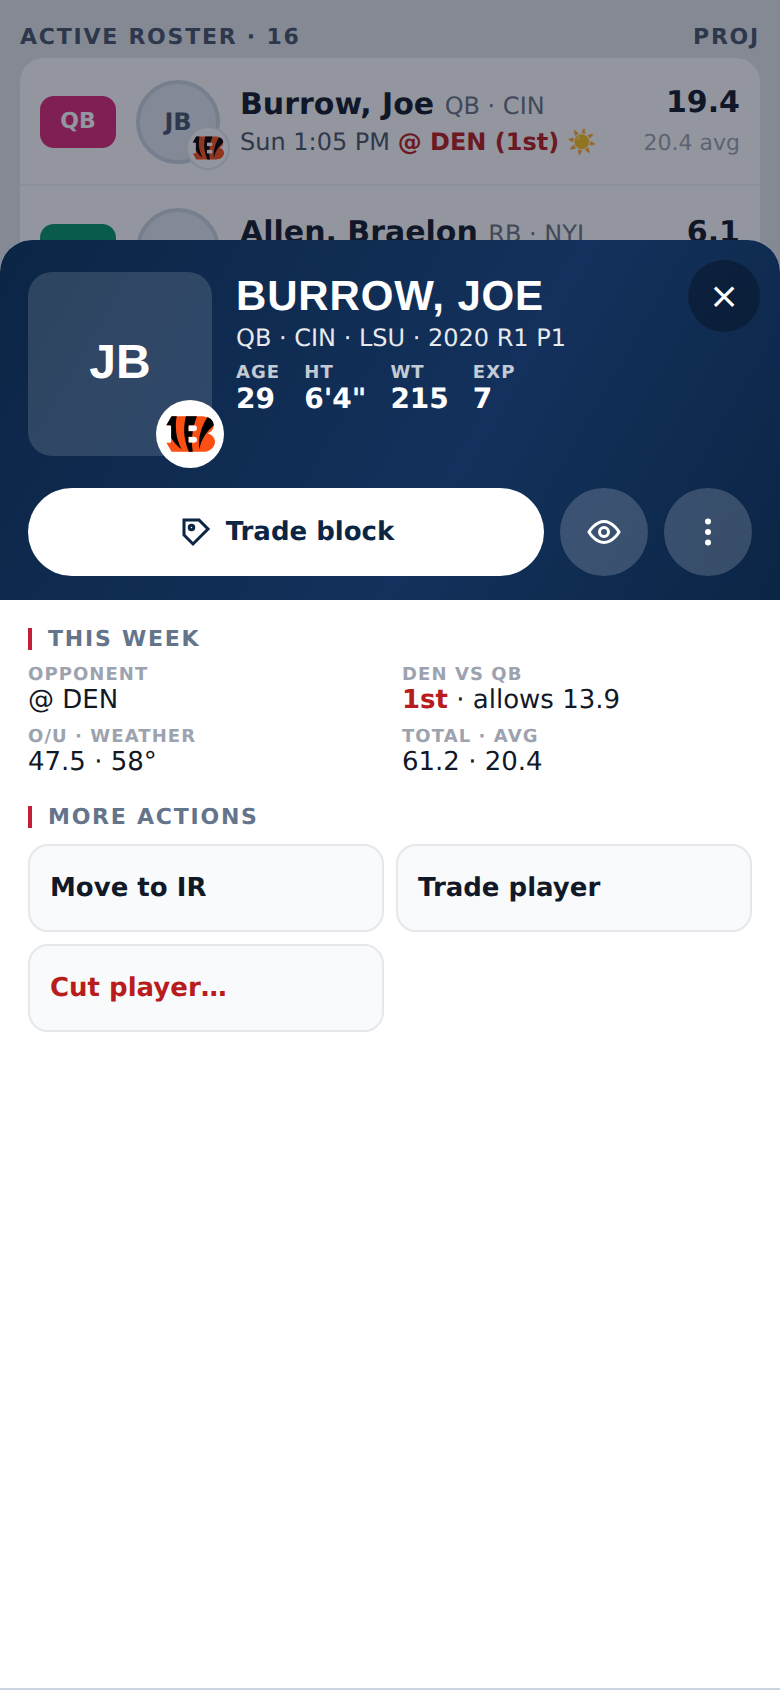
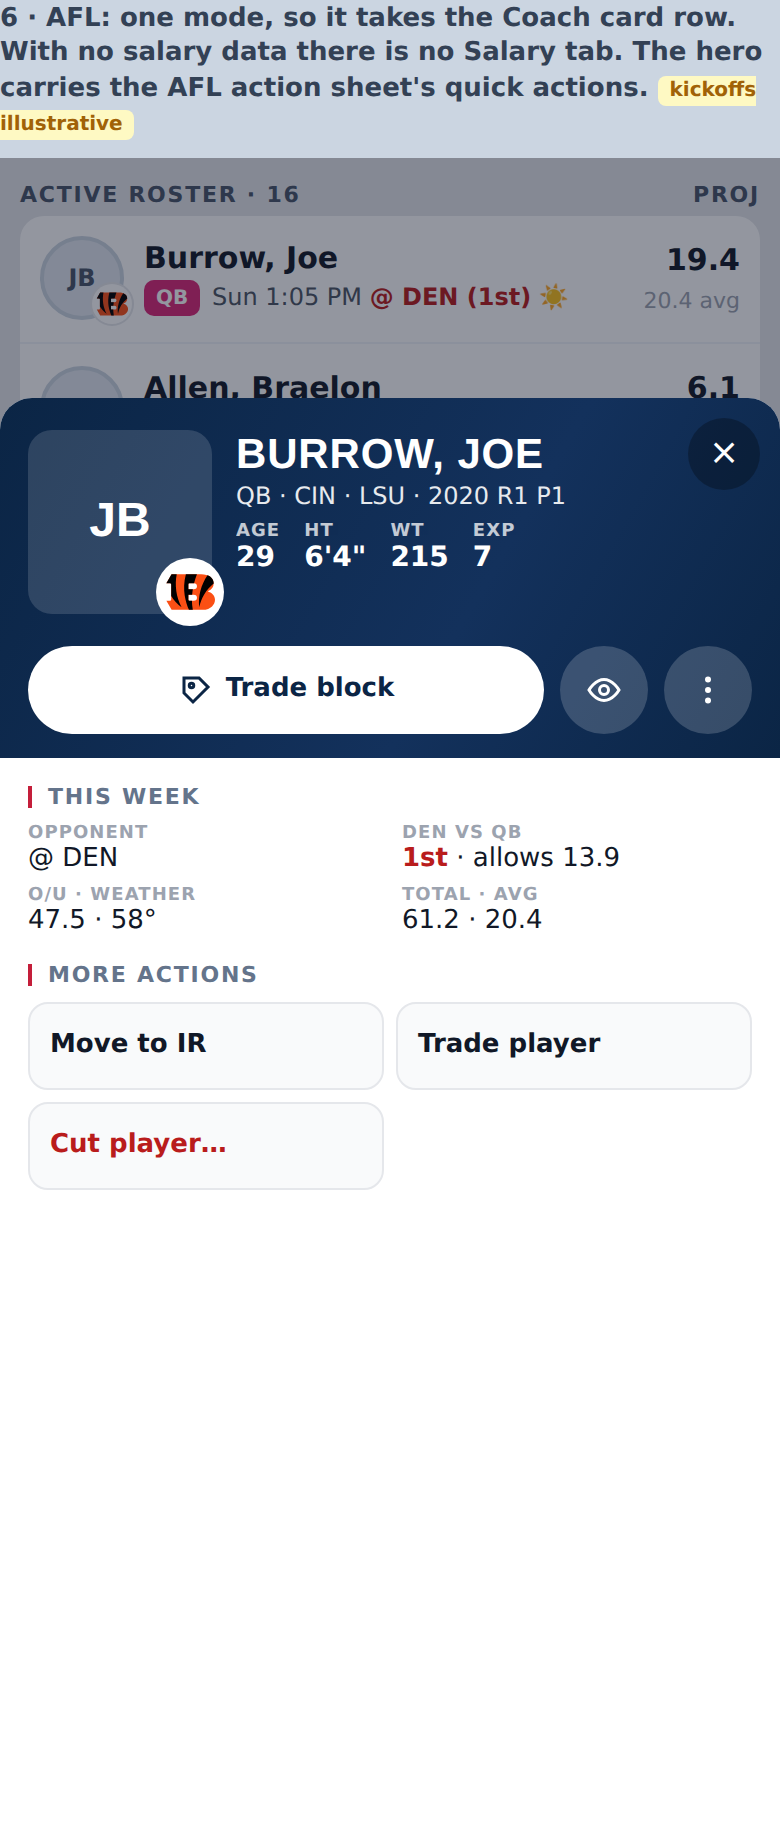
docs(rosters): record phone-layout decisions; pills inline under the name
GM and Coach rows stay separate, the sim bar shows on every viewed team,
and the position pill moves from its own column to the start of line 2.
Mockup and row screenshots re-rendered to match.

Claude-Session: https://claude.ai/code/session_01QToPg29wzrZ82tiSMZkkES

Changed region(s): [[0.0, 0.0, 1.0, 0.6462], [0.7692, 0.4615, 0.8, 0.4923]]

diff --git a/docs/plans/rosters-mobile-layout/mockup.html b/docs/plans/rosters-mobile-layout/mockup.html
@@ -59,9 +59,9 @@
   /* ---- card rows ---- */
   .group { margin: 0 10px 4px; font: 700 11px var(--font); letter-spacing: .08em; text-transform: uppercase; color: #475569; display: flex; justify-content: space-between; }
   .rows { margin: 0 10px 10px; background: var(--card); border-radius: 12px; overflow: hidden; }
-  .row { display: grid; grid-template-columns: 38px 42px 1fr auto; gap: 0 10px; align-items: center; padding: 9px 10px; border-bottom: 1px solid #f1f5f9; min-height: 64px; }
+  .row { display: grid; grid-template-columns: 42px 1fr auto; gap: 0 10px; align-items: center; padding: 9px 10px; border-bottom: 1px solid #f1f5f9; min-height: 64px; }
   .row:last-child { border-bottom: 0; }
-  .pos { width: 38px; height: 26px; border-radius: 7px; display: grid; place-items: center; font: 700 11px var(--font); color: #fff; }
+  .pos { display: inline-grid; place-items: center; min-width: 28px; height: 18px; padding: 0 5px; margin-right: 6px; border-radius: 5px; vertical-align: 1px; font: 700 10px var(--font); color: #fff; }
   .pos--QB { background: var(--qb); } .pos--RB { background: var(--rb); } .pos--WR { background: var(--wr); } .pos--TE { background: var(--te); }
   .row--ps .pos { box-shadow: inset 0 0 0 2px #fff, 0 0 0 2px #3b6fe0; }
   .av { width: 42px; height: 42px; border-radius: 50%; background: #e2e8f0; border: 2px solid #cbd5e1; position: relative; display: grid; place-items: center; font: 700 12px var(--font); color: #475569; }
@@ -173,7 +173,7 @@
 
 <!-- ===== 1. GM card rows ===== -->
 <section class="frame" id="f-gm">
-  <p class="frame__label">1 · TheLeague GM. Team card with cap bar and action chips. Rows: position pill, headshot with NFL badge, name / contract / status. Right: 2026 salary. Two moves simulated.</p>
+  <p class="frame__label">1 · TheLeague GM. Team card with cap bar and action chips. Rows: headshot with NFL badge, name, then the position pill inline under the name with contract / status. Right: 2026 salary. Two moves simulated.</p>
   <div class="phone">
     <div class="team">
       <div class="team__top"><img src="../../../public/assets/theleague/icons/pigskins.png" alt="" /><div><div class="team__name">Pacific Pigskins</div><div class="team__meta">3-1 · 5th of 16 · 190 PF · Northwest</div></div></div>
@@ -196,13 +196,13 @@
     </div>
     <div class="group"><span>Active · 22</span><span>2026</span></div>
     <div class="rows">
-      <div class="row"><span class="pos pos--QB">QB</span><span class="av">LJ<img src="../../../public/assets/nfl-logos/BAL.svg" alt="" /></span><span class="txt"><div class="l1">Lamar Jackson 🏷 <small>QB · BAL (7)</small></div><div class="l2"><span class="yrs">3</span> yrs<span class="sep">|</span>thru '28</div></span><span class="num"><b>$5,000,000</b><span>QB 3</span></span></div>
-      <div class="row"><span class="pos pos--QB">QB</span><span class="av">JG<img src="../../../public/assets/nfl-logos/DET.svg" alt="" /></span><span class="txt"><div class="l1">Jared Goff 🏷 <small>QB · DET (8)</small></div><div class="l2"><span class="yrs">3</span> yrs<span class="sep">|</span>thru '28</div></span><span class="num"><b>$3,400,000</b><span>QB 14</span></span></div>
-      <div class="row"><span class="pos pos--RB">RB</span><span class="av">RD<img src="../../../public/assets/nfl-logos/PIT.svg" alt="" /></span><span class="txt"><div class="l1">Rico Dowdle <small>RB · PIT (5)</small></div><div class="l2"><span class="yrs">3</span> yrs<span class="sep">|</span>thru '28<span class="sep">|</span><span class="q">QUES</span></div></span><span class="num"><b>$2,125,000</b><span>RB 22</span></span></div>
-      <div class="row row--sim"><span class="pos pos--RB">RB</span><span class="av">JW<img src="../../../public/assets/nfl-logos/MIA.svg" alt="" /></span><span class="txt"><div class="l1">Jaylen Wright <small>RB · MIA</small></div><div class="l2"><span class="sb sb--trade">trade ×</span> saves $574,750<span class="sep">|</span><span class="q">QUES</span></div></span><span class="num"><b>$574,750</b><span>RB 51</span></span></div>
-      <div class="row row--sim"><span class="pos pos--RB">RB</span><span class="av">JD<img src="../../../public/assets/nfl-logos/DEN.svg" alt="" /></span><span class="txt"><div class="l1">J.K. Dobbins <small>RB · DEN</small></div><div class="l2"><span class="sb sb--cut">cut ×</span> $272,250 dead<span class="sep">|</span>1 yr</div></span><span class="num"><b>$544,500</b><span>RB 40</span></span></div>
-      <div class="row"><span class="pos pos--RB">RB</span><span class="av">EW<img src="../../../public/assets/nfl-logos/SEA.svg" alt="" /></span><span class="txt"><div class="l1">Emanuel Wilson <small>RB · SEA (8)</small></div><div class="l2"><span class="yrs yrs--elig">4</span><span class="dl">17h</span> declare<span class="sep">|</span>Rookie</div></span><span class="num"><b>$467,500</b><span>RB 58</span></span></div>
-      <div class="row"><span class="pos pos--WR">WR</span><span class="av">JW<img src="../../../public/assets/nfl-logos/DEN.svg" alt="" /></span><span class="txt"><div class="l1">Jaylen Waddle <small>WR · DEN (12)</small></div><div class="l2"><span class="yrs">2</span> yrs<span class="sep">|</span>thru '27</div></span><span class="num"><b>$5,575,000</b><span>WR 9</span></span></div>
+      <div class="row"><span class="av">LJ<img src="../../../public/assets/nfl-logos/BAL.svg" alt="" /></span><span class="txt"><div class="l1">Lamar Jackson 🏷 <small>(7)</small></div><div class="l2"><span class="pos pos--QB">QB</span><span class="yrs">3</span> yrs<span class="sep">|</span>thru '28</div></span><span class="num"><b>$5,000,000</b><span>QB 3</span></span></div>
+      <div class="row"><span class="av">JG<img src="../../../public/assets/nfl-logos/DET.svg" alt="" /></span><span class="txt"><div class="l1">Jared Goff 🏷 <small>(8)</small></div><div class="l2"><span class="pos pos--QB">QB</span><span class="yrs">3</span> yrs<span class="sep">|</span>thru '28</div></span><span class="num"><b>$3,400,000</b><span>QB 14</span></span></div>
+      <div class="row"><span class="av">RD<img src="../../../public/assets/nfl-logos/PIT.svg" alt="" /></span><span class="txt"><div class="l1">Rico Dowdle <small>(5)</small></div><div class="l2"><span class="pos pos--RB">RB</span><span class="yrs">3</span> yrs<span class="sep">|</span>thru '28<span class="sep">|</span><span class="q">QUES</span></div></span><span class="num"><b>$2,125,000</b><span>RB 22</span></span></div>
+      <div class="row row--sim"><span class="av">JW<img src="../../../public/assets/nfl-logos/MIA.svg" alt="" /></span><span class="txt"><div class="l1">Jaylen Wright </div><div class="l2"><span class="pos pos--RB">RB</span><span class="sb sb--trade">trade ×</span> saves $574,750<span class="sep">|</span><span class="q">QUES</span></div></span><span class="num"><b>$574,750</b><span>RB 51</span></span></div>
+      <div class="row row--sim"><span class="av">JD<img src="../../../public/assets/nfl-logos/DEN.svg" alt="" /></span><span class="txt"><div class="l1">J.K. Dobbins </div><div class="l2"><span class="pos pos--RB">RB</span><span class="sb sb--cut">cut ×</span> $272,250 dead<span class="sep">|</span>1 yr</div></span><span class="num"><b>$544,500</b><span>RB 40</span></span></div>
+      <div class="row"><span class="av">EW<img src="../../../public/assets/nfl-logos/SEA.svg" alt="" /></span><span class="txt"><div class="l1">Emanuel Wilson <small>(8)</small></div><div class="l2"><span class="pos pos--RB">RB</span><span class="yrs yrs--elig">4</span><span class="dl">17h</span> declare<span class="sep">|</span>Rookie</div></span><span class="num"><b>$467,500</b><span>RB 58</span></span></div>
+      <div class="row"><span class="av">JW<img src="../../../public/assets/nfl-logos/DEN.svg" alt="" /></span><span class="txt"><div class="l1">Jaylen Waddle <small>(12)</small></div><div class="l2"><span class="pos pos--WR">WR</span><span class="yrs">2</span> yrs<span class="sep">|</span>thru '27</div></span><span class="num"><b>$5,575,000</b><span>WR 9</span></span></div>
       <div class="foot"><span>Total salary 2026 (incl. dead)</span><b>$42,174,925</b></div>
     </div>
     <div class="simbar" role="region" aria-label="Simulated cap moves"><span class="simbar__n">2 sims</span><span class="simbar__t">2026 cap space<br /><b>$2,825,075</b> <span class="up">+$847,000</span></span><button>Review</button></div>
@@ -220,14 +220,14 @@
     </div>
     <div class="group"><span>Week 4 · lineups lock Thu 5:15 PM</span><span>Proj</span></div>
     <div class="rows">
-      <div class="row"><span class="pos pos--QB">QB</span><span class="av">LJ<img src="../../../public/assets/nfl-logos/BAL.svg" alt="" /></span><span class="txt"><div class="l1">Lamar Jackson <small>QB · BAL</small></div><div class="l2">Sun 10:00 AM <span class="easy">vs CLE (27th)</span> ☀</div><div class="l3">-7.5<span class="sep">|</span>O/U 44.5<span class="sep">|</span>L3 22.4 ↑</div></span><span class="num"><b>24.1</b><span>21.9 avg</span></span></div>
-      <div class="row"><span class="pos pos--QB">QB</span><span class="av">JG<img src="../../../public/assets/nfl-logos/DET.svg" alt="" /></span><span class="txt"><div class="l1">Jared Goff <small>QB · DET</small></div><div class="l2">Sun 1:25 PM <span class="hard">@ GB (4th)</span> ⛅</div><div class="l3">+2.5<span class="sep">|</span>O/U 47<span class="sep">|</span>L3 17.0 ↓</div></span><span class="num"><b>18.6</b><span>18.2 avg</span></span></div>
-      <div class="row"><span class="pos pos--QB">QB</span><span class="av">SD<img src="../../../public/assets/nfl-logos/SEA.svg" alt="" /></span><span class="txt"><div class="l1">Sam Darnold <small>QB · SEA</small></div><div class="l2" style="color:var(--faint);font-style:italic">BYE week</div></span><span class="num"><b>—</b><span>16.4 avg</span></span></div>
-      <div class="row"><span class="pos pos--RB">RB</span><span class="av">RD<img src="../../../public/assets/nfl-logos/PIT.svg" alt="" /></span><span class="txt"><div class="l1">Rico Dowdle <small>RB · PIT</small></div><div class="l2">Sun 10:00 AM <span class="mid">vs NE (15th)</span> 🌧 <span class="q">QUES</span></div><div class="l3">-3<span class="sep">|</span>O/U 41<span class="sep">|</span>L3 9.9 ↑</div></span><span class="num"><b>11.2</b><span>8.7 avg</span></span></div>
-      <div class="row"><span class="pos pos--RB">RB</span><span class="av">JW<img src="../../../public/assets/nfl-logos/MIA.svg" alt="" /></span><span class="txt"><div class="l1">Jaylen Wright <small>RB · MIA</small></div><div class="l2">Sun 10:00 AM <span class="hard">@ BUF (2nd)</span> 💨 <span class="q">QUES</span></div><div class="l3">+6<span class="sep">|</span>O/U 45.5<span class="sep">|</span>L3 4.1 ↓</div></span><span class="num"><b>5.4</b><span>5.0 avg</span></span></div>
-      <div class="row"><span class="pos pos--RB">RB</span><span class="av">JD<img src="../../../public/assets/nfl-logos/DEN.svg" alt="" /></span><span class="txt"><div class="l1">J.K. Dobbins <small>RB · DEN</small></div><div class="l2">Mon 5:15 PM <span class="easy">vs KC (24th)</span> ☀</div><div class="l3">+1<span class="sep">|</span>O/U 44.5<span class="sep">|</span>L3 13.1 ↑</div></span><span class="num"><b>12.9</b><span>12.7 avg</span></span></div>
-      <div class="row"><span class="pos pos--WR">WR</span><span class="av">JW<img src="../../../public/assets/nfl-logos/DEN.svg" alt="" /></span><span class="txt"><div class="l1">Jaylen Waddle <small>WR · DEN</small></div><div class="l2">Mon 5:15 PM <span class="mid">vs KC (12th)</span> ☀</div><div class="l3">+1<span class="sep">|</span>O/U 44.5<span class="sep">|</span>L3 15.0 ↑</div></span><span class="num"><b>14.3</b><span>13.1 avg</span></span></div>
-      <div class="row"><span class="pos pos--WR">WR</span><span class="av">DM<img src="../../../public/assets/nfl-logos/BUF.svg" alt="" /></span><span class="txt"><div class="l1">D.J. Moore <small>WR · BUF</small></div><div class="l2">Sun 10:00 AM <span class="easy">vs MIA (22nd)</span> 💨 <span class="d">DOUB</span></div><div class="l3">-6<span class="sep">|</span>O/U 45.5<span class="sep">|</span>L3 7.2 ↓</div></span><span class="num"><b>11.8</b><span>10.4 avg</span></span></div>
+      <div class="row"><span class="av">LJ<img src="../../../public/assets/nfl-logos/BAL.svg" alt="" /></span><span class="txt"><div class="l1">Lamar Jackson </div><div class="l2"><span class="pos pos--QB">QB</span>Sun 10:00 AM <span class="easy">vs CLE (27th)</span> ☀</div><div class="l3">-7.5<span class="sep">|</span>O/U 44.5<span class="sep">|</span>L3 22.4 ↑</div></span><span class="num"><b>24.1</b><span>21.9 avg</span></span></div>
+      <div class="row"><span class="av">JG<img src="../../../public/assets/nfl-logos/DET.svg" alt="" /></span><span class="txt"><div class="l1">Jared Goff </div><div class="l2"><span class="pos pos--QB">QB</span>Sun 1:25 PM <span class="hard">@ GB (4th)</span> ⛅</div><div class="l3">+2.5<span class="sep">|</span>O/U 47<span class="sep">|</span>L3 17.0 ↓</div></span><span class="num"><b>18.6</b><span>18.2 avg</span></span></div>
+      <div class="row"><span class="av">SD<img src="../../../public/assets/nfl-logos/SEA.svg" alt="" /></span><span class="txt"><div class="l1">Sam Darnold </div><div class="l2" style="color:var(--faint);font-style:italic"><span class="pos pos--QB">QB</span>BYE week</div></span><span class="num"><b>—</b><span>16.4 avg</span></span></div>
+      <div class="row"><span class="av">RD<img src="../../../public/assets/nfl-logos/PIT.svg" alt="" /></span><span class="txt"><div class="l1">Rico Dowdle </div><div class="l2"><span class="pos pos--RB">RB</span>Sun 10:00 AM <span class="mid">vs NE (15th)</span> 🌧 <span class="q">QUES</span></div><div class="l3">-3<span class="sep">|</span>O/U 41<span class="sep">|</span>L3 9.9 ↑</div></span><span class="num"><b>11.2</b><span>8.7 avg</span></span></div>
+      <div class="row"><span class="av">JW<img src="../../../public/assets/nfl-logos/MIA.svg" alt="" /></span><span class="txt"><div class="l1">Jaylen Wright </div><div class="l2"><span class="pos pos--RB">RB</span>Sun 10:00 AM <span class="hard">@ BUF (2nd)</span> 💨 <span class="q">QUES</span></div><div class="l3">+6<span class="sep">|</span>O/U 45.5<span class="sep">|</span>L3 4.1 ↓</div></span><span class="num"><b>5.4</b><span>5.0 avg</span></span></div>
+      <div class="row"><span class="av">JD<img src="../../../public/assets/nfl-logos/DEN.svg" alt="" /></span><span class="txt"><div class="l1">J.K. Dobbins </div><div class="l2"><span class="pos pos--RB">RB</span>Mon 5:15 PM <span class="easy">vs KC (24th)</span> ☀</div><div class="l3">+1<span class="sep">|</span>O/U 44.5<span class="sep">|</span>L3 13.1 ↑</div></span><span class="num"><b>12.9</b><span>12.7 avg</span></span></div>
+      <div class="row"><span class="av">JW<img src="../../../public/assets/nfl-logos/DEN.svg" alt="" /></span><span class="txt"><div class="l1">Jaylen Waddle </div><div class="l2"><span class="pos pos--WR">WR</span>Mon 5:15 PM <span class="mid">vs KC (12th)</span> ☀</div><div class="l3">+1<span class="sep">|</span>O/U 44.5<span class="sep">|</span>L3 15.0 ↑</div></span><span class="num"><b>14.3</b><span>13.1 avg</span></span></div>
+      <div class="row"><span class="av">DM<img src="../../../public/assets/nfl-logos/BUF.svg" alt="" /></span><span class="txt"><div class="l1">D.J. Moore </div><div class="l2"><span class="pos pos--WR">WR</span>Sun 10:00 AM <span class="easy">vs MIA (22nd)</span> 💨 <span class="d">DOUB</span></div><div class="l3">-6<span class="sep">|</span>O/U 45.5<span class="sep">|</span>L3 7.2 ↓</div></span><span class="num"><b>11.8</b><span>10.4 avg</span></span></div>
     </div>
   </div>
 </section>
@@ -377,8 +377,8 @@
   <div class="phone">
     <div class="group" style="margin-top:12px"><span>Active roster · 16</span><span>Proj</span></div>
     <div class="rows">
-      <div class="row"><span class="pos pos--QB">QB</span><span class="av">JB<img src="../../../public/assets/nfl-logos/CIN.svg" alt="" /></span><span class="txt"><div class="l1">Burrow, Joe <small>QB · CIN</small></div><div class="l2">Sun 1:05 PM <span class="hard">@ DEN (1st)</span> ☀</div></span><span class="num"><b>19.4</b><span>20.4 avg</span></span></div>
-      <div class="row"><span class="pos pos--RB">RB</span><span class="av">BA<img src="../../../public/assets/nfl-logos/NYJ.svg" alt="" /></span><span class="txt"><div class="l1">Allen, Braelon <small>RB · NYJ</small></div><div class="l2">Sun 10:00 AM <span class="easy">@ MIA (21st)</span> 💨</div></span><span class="num"><b>6.1</b><span>5.2 avg</span></span></div>
+      <div class="row"><span class="av">JB<img src="../../../public/assets/nfl-logos/CIN.svg" alt="" /></span><span class="txt"><div class="l1">Burrow, Joe </div><div class="l2"><span class="pos pos--QB">QB</span>Sun 1:05 PM <span class="hard">@ DEN (1st)</span> ☀</div></span><span class="num"><b>19.4</b><span>20.4 avg</span></span></div>
+      <div class="row"><span class="av">BA<img src="../../../public/assets/nfl-logos/NYJ.svg" alt="" /></span><span class="txt"><div class="l1">Allen, Braelon </div><div class="l2"><span class="pos pos--RB">RB</span>Sun 10:00 AM <span class="easy">@ MIA (21st)</span> 💨</div></span><span class="num"><b>6.1</b><span>5.2 avg</span></span></div>
     </div>
     <div class="scrim"></div>
     <div class="sheet" style="top:120px" role="dialog" aria-label="Joe Burrow">

diff --git a/docs/plans/rosters-mobile-layout.md b/docs/plans/rosters-mobile-layout.md
@@ -133,9 +133,13 @@ A three-line card for each roster row, built by CSS from the row's existing
 cells.
 
 ```
-[POS] (photo+NFL)  Name  🏷 (Q) ✂autocut          $5,000,000   ← GM: 2026 salary
-      pill   badge  [3] yrs | thru '28 | RC/TO/FT     QB 3        ← My Rank, if a board exists
+(photo+NFL)  Name (7)  🏷 (Q) ✂autocut                 $5,000,000   ← GM: 2026 salary
+     badge   [QB] [3] yrs | thru '28 | RC/TO/FT           QB 3         ← My Rank, if a board exists
 ```
+
+**Decided (user, 2026-09-25):** the position pill is NOT its own column. It sits
+inline at the start of line 2, directly under the player name, so the avatar is
+the card's left edge and the name gets the width a pill column would have taken.
 
 ### GM mode
 
@@ -143,10 +147,10 @@ cells.
 
 | Part | Content | Source cell |
 |---|---|---|
-| Left edge | Position pill (QB / RB / WR / TE / PK / DEF colours) with the **roster-status stripe** kept on the card's left edge (active / practice / IR) | new `data-pos` on `<tr>`; existing row status classes |
+| Left edge | **Roster-status stripe** kept on the card's left edge (active / practice / IR). No pill column | existing row status classes |
 | Avatar | Headshot, NFL team logo badged on its corner | `PlayerCell` avatar + `nflTeam` |
 | Line 1 | Name + **every existing after-name badge**: trade-block 🏷 link, injury `(Q)` button, autocut badge, contract-action badge with its × | `[data-column=player]`, unchanged |
-| Line 2 | Years chip (**stays interactive**: eligible / pending declaration, deadline countdown), `thru '28`, contract designation when not Standard, injury word | `[data-column=years]` + a new line-2 span |
+| Line 2 | Inline position pill (QB / RB / WR / TE / PK / DEF colours) first, then the years chip (**stays interactive**: eligible / pending declaration, deadline countdown), `thru '28`, contract designation when not Standard, injury word | `[data-column=years]` + a new line-2 span |
 | Right, big | Current-year salary, including simulated / declared styling | `[data-column=year1]` |
 | Right, small | My Rank (e.g. `QB 3`), only when a board is loaded | `[data-column=rank]` |
 
@@ -663,6 +667,14 @@ gotcha in `rosters-page-split.md`.
 ---
 
 ## 11. Open questions for the user
+
+**Answered (user, 2026-09-25):**
+- **Q1:** GM and Coach stay separate. GM rows get no matchup line.
+- **Q6:** Yes. The sim bar shows on every viewed team, not only your own.
+- **Pill placement (new):** inline at the start of line 2, under the name, in
+  both modes. It is not a leading column. The mockup PNGs predate this.
+
+Still open:
 
 1. **GM line 3.** Should GM rows also carry a muted matchup line (both lines
    in one view, as Sleeper does), or stay strictly per mode as proposed?
